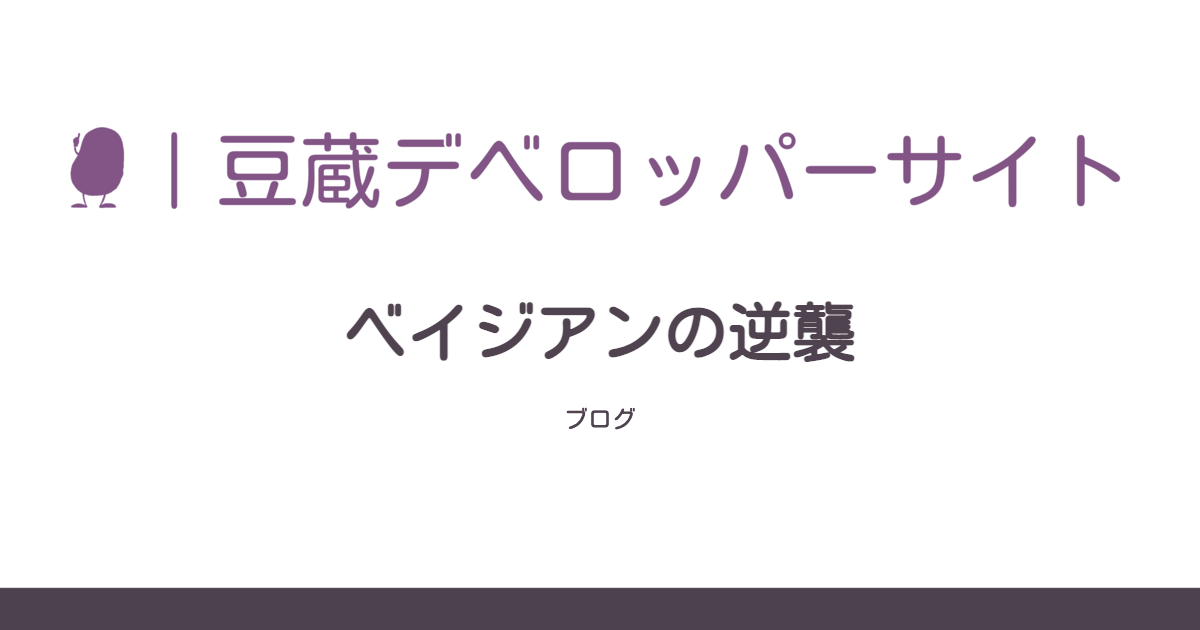
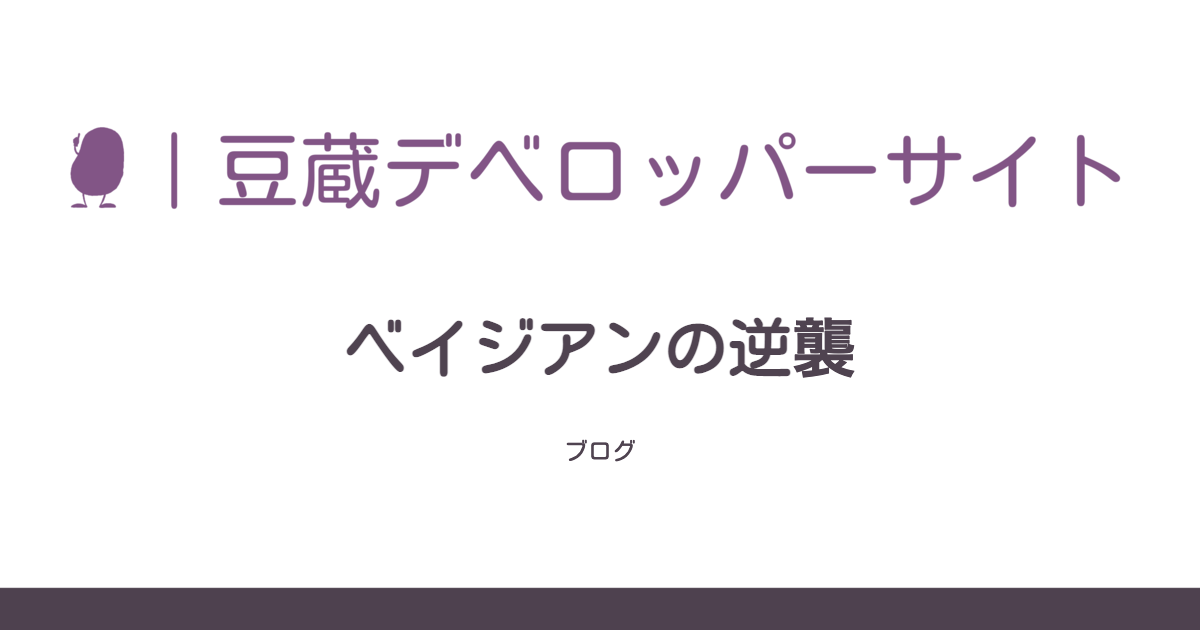
Add blog for GitHub Actions inputs unified across manual and reusable… (#179)
* Add blog for GitHub Actions inputs unified across manual and reusable workflows

* Add OGP images for social media

* add entry to cicd page

* Add OGP images for social media

Changed region(s): [[0.2775, 0.4825, 0.7092, 0.6032], [0.4625, 0.6333, 0.5242, 0.754]]

diff --git a/src/posts/blogs/2022/0611_github-actions-inputs-unified.md b/src/posts/blogs/2022/0611_github-actions-inputs-unified.md
@@ -1,0 +1,157 @@
+---
+title: GitHub Actions - 再利用可能ワークフローと手動トリガーで入力値の扱いを統一
+author: masahiro-kondo
+date: 2022-06-11
+---
+
+これまで、GitHub Actions の手動トリガー(workflow_dispatch)では、入力値を扱う際、`github.event.inputs.foo` のように event コンテキストから値を取り出す必要がありました。
+以前紹介した[再利用可能ワークフロー](/blogs/2022/03/08/github-actions-reuse-workflows/)(workflow_call)では、入力値を `inputs.foo` のように inputs コンテキストから取得します。
+
+このようにトリガーの種類によって入力値の扱いが異なると、両方のトリガーで起動するワークフローが書きづらい問題があります。
+
+先日この問題を解消するリリースが行われ、手動トリガーと再利用可能ワークフローの入力値の扱いが統一されました。
+
+[GitHub Actions&#058; Inputs unified across manual and reusable workflows | GitHub Changelog](https://github.blog/changelog/2022-06-10-github-actions-inputs-unified-across-manual-and-reusable-workflows/)
+
+現在では workflow_dispatch の入力値も inputs コンテキストから取得可能です。
+
+:::info
+event コンテキストからの取得も互換性のため残されています。
+:::
+
+では、以前の書き方の手動トリガーのジョブを動かしてみます。inputs の logLevel や tags などを github.event.inputs から取得してログに出力するワークフローです。
+{% raw %}
+```yaml
+on: 
+  workflow_dispatch:
+    inputs:
+      logLevel:
+        description: 'Log level'     
+        required: true
+        default: 'warning'
+      tags:
+        description: 'Test scenario tags'
+
+jobs:
+  printInputs:
+    runs-on: ubuntu-latest
+    steps:
+    - run: |
+        echo "Log level: ${{ github.event.inputs.logLevel }}"
+        echo "Tags: ${{ github.event.inputs.tags }}" 
+```
+{% endraw %}
+Run workflow で入力値を指定して実行。
+
+![](https://i.gyazo.com/b9c79355aa1856f12e2966bdf6c4a44e.png)
+
+実行結果。この書き方でも入力値が取得できることがわかります。
+
+![](https://i.gyazo.com/fce67782d676d0933ed95e4e60c46dad.png)
+
+このワークフローを入力値を inputs コンテキストから取得するように書き換えます。
+{% raw %}
+```diff
+    - run: |
+-       echo "Log level: ${{ github.event.inputs.logLevel }}"
+-       echo "Tags: ${{ github.event.inputs.tags }}" 
++       echo "Log level: ${{ inputs.logLevel }}"
++       echo "Tags: ${{ inputs.tags }}" 
+```
+{% endraw %}
+実行します。
+
+![](https://i.gyazo.com/8fd4a699de9c1b2b9e9eecea3d419390.png)
+
+実行結果。この書き方でも入力値が正しく取得できました。
+
+![](https://i.gyazo.com/9b0b43cb2f4b72d34d4f4089b3436ef1.png)
+
+それでは、workflow_dispatch と workflow_call の両方をトリガーに持つワークフローを書いてみます。2つのトリガーでそれぞれほぼ同じ inputs を定義し、ジョブでは、inputs コンテキストから取り出した入力値を echo 出力しています。
+{% raw %}
+```yaml
+name: Manual and Callee
+
+on:
+  workflow_dispatch:
+    inputs:
+      logLevel:
+        description: 'Log level'
+        required: true
+        default: 'warning'
+        type: choice
+        options:
+        - info
+        - warning
+        - debug
+      tags:
+        description: 'Test scenario tags'
+        required: false
+        type: boolean
+
+  workflow_call:
+    inputs:
+      logLevel:
+        description: 'Log level'
+        required: true
+        default: 'warning'
+        type: string
+      tags:
+        description: 'Test scenario tags'
+        required: false
+        type: boolean
+
+jobs:
+  log-the-inputs:
+    runs-on: ubuntu-latest
+    steps:
+      - run: |
+          echo "Log level: $LEVEL"
+          echo "Tags: $TAGS"
+        env:
+          LEVEL: ${{ inputs.logLevel }}
+          TAGS: ${{ inputs.tags }}
+```
+{% endraw %}
+workflow_dispach は入力フォームが使用できるため、logLevel を選択できるよう `type: choice` を指定し、`options` で選択肢を列挙しています。
+
+workflow_call の方は、値を呼び出し側ジョブのコードで渡すため、logLevel は `type: string` にしています。
+
+:::info
+`type: choice` を指定すると invalid value としてエラーになります。
+:::
+
+
+まず、手動トリガーで実行します。
+
+![](https://i.gyazo.com/f88da54e7ead3dcf6b45a0d2818e10e1.png)
+
+実行結果。
+
+![](https://i.gyazo.com/c2828fc2f1462f4fa9faf8ac36e9340e.png)
+
+
+次に、呼び出し用のワークフローを作成します。上記のワークフローファイルを指定し、with で入力値を渡します。
+
+```yaml
+name: Caller Job
+on: [workflow_dispatch]
+
+jobs:
+  Reuse:
+    uses: ./.github/workflows/dispatch_and_call_inputs.yml
+    with:
+      loglevel: info
+      tags: false
+```
+
+呼び出し側のワークフローを手動実行します。入力値はコードで渡すため、実行するだけです。
+
+![](https://i.gyazo.com/a59ce549af6575374995427aed5f9fe4.png)
+
+実行結果。
+
+![](https://i.gyazo.com/865756108c41e9d090bba8c25bca3784.png)
+
+
+以上、入力値の扱いが統一されたため、再利用可能ワークフローを単体で動かすことが簡単になり、複数のトリガーから同じジョブを実行できるようになりました。

diff --git a/src/pages/cicd.md b/src/pages/cicd.md
@@ -28,6 +28,7 @@ CI/CDパイプラインは、現代のソフトウェア開発に必要不可欠
 - [GitHub のリリースノート自動生成機能を使う](/blogs/2022/03/11/github-automatically-generated-release-notes/)
 - [GitHub Actions ワークフローで個別ジョブのリランが可能に](/blogs/2022/04/14/github-actions-workflow-rerun-individual-jobs/)
 - [GitHub Actions ジョブサマリー機能を使う](/blogs/2022/05/14/github-actions-job-summaries/)
+- [GitHub Actions - 再利用可能ワークフローと手動トリガーで入力値の扱いを統一](/blogs/2022/06/11/github-actions-inputs-unified/)
 
 豆蔵有志でも、特定ユースケースに対応したActionをOSSとして公開しています。
 
